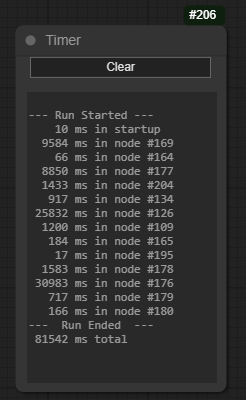
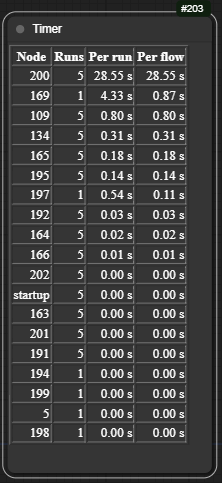
timer now html table

diff --git a/js/timer.js b/js/timer.js
@@ -70,7 +70,6 @@ class Timer {
         if (!Timer.runs_since_clear || this_node_data[1] > Timer.runs_since_clear) Timer.runs_since_clear = this_node_data[1]
         this_node_data[2] += dt;
         this_node_data[3] = this_node_data[2] / this_node_data[1];
-        this_node_data[4] = this_node_data[2] / Timer.runs_since_clear;
 
         Timer.lastChangeTime = t;
         Timer.currentNodeId = detail;
@@ -90,6 +89,7 @@ class Timer {
                 $el("th", {"textContent":"Per flow"}),
             ])
         ]);
+        Timer.all_times.forEach((node_data) => {node_data[4] = node_data[2] / Timer.runs_since_clear})
         Timer.all_times.sort((a,b)=>{ return b[4]-a[4]; })
         Timer.all_times.forEach((node_data) => {
             table.append($el("tr",[
